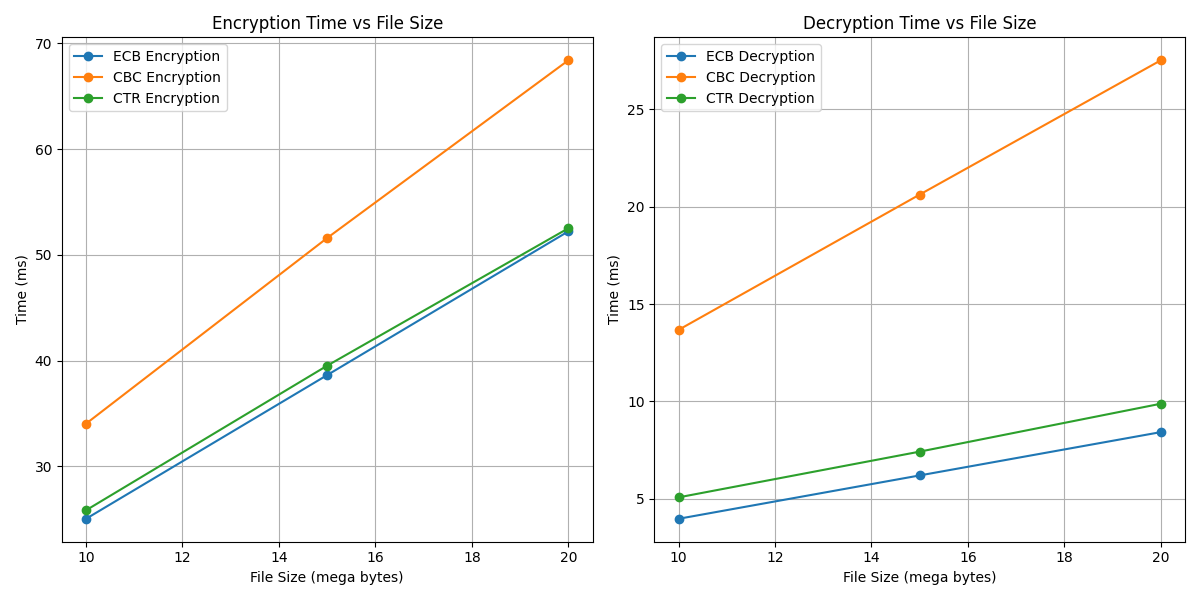
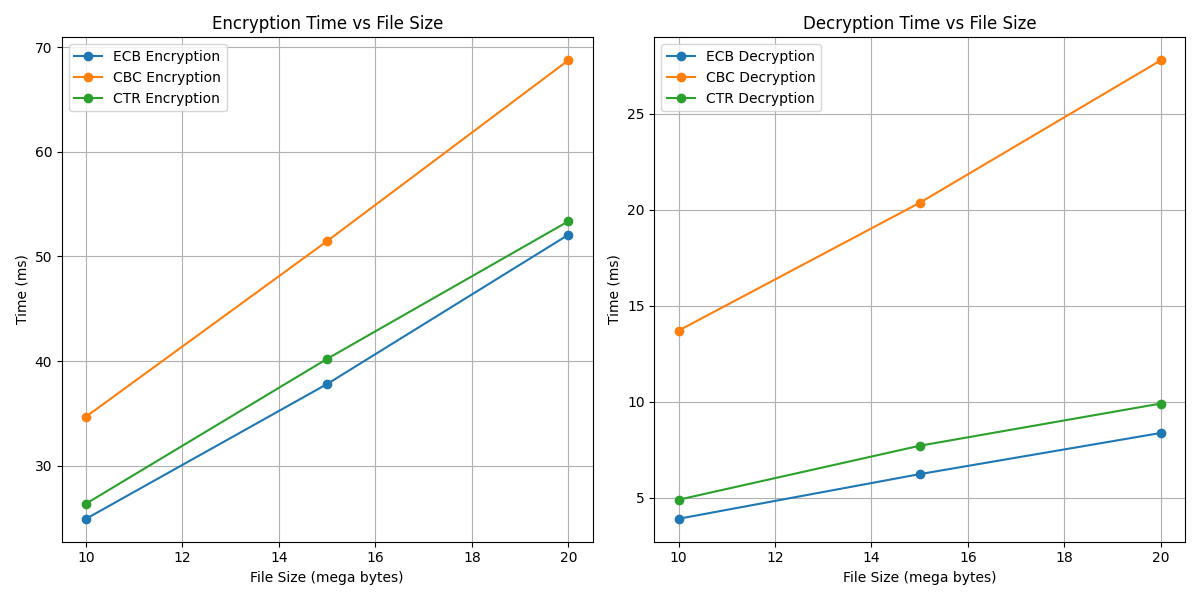
done

diff --git a/lab4/main.py b/lab4/main.py
@@ -4,7 +4,7 @@ from collections import defaultdict
 import matplotlib.pyplot as plt
 import Solution
 from Utils import Utils
-from Crypto.Util.Padding import pad
+from Crypto.Util.Padding import pad, unpad
 
 solution = Solution.Solution()
 utils = Utils.Utils()
@@ -54,28 +54,42 @@ def plotTimes(avgTimes):
     plt.show()
 
 def flipFirstBitOfMessage(message):
-    flipped_message = bytearray(message, 'utf-8')
-    flipped_message[len(flipped_message) // 2] ^= 1
-    return flipped_message.decode('utf-8', errors='ignore')
+    flipped_message = bytearray(message)
+    flipped_message[0] ^= 0b00000001
+    return bytes(flipped_message)
 
 def flipFirstBitOfCipher(cipher):
     flipped_cipher = bytearray(cipher)
-    flipped_cipher[0] ^= 1
-    return flipped_cipher
-def compareBitWiseError(original, damaged):
-    numberOfErrors = 0
+    original = flipped_cipher.copy()
+    flipped_cipher[0] ^= 0b00000001
+    for i in range(len(original)):
+        if original[i] != flipped_cipher[i]:
+            print("Flipped byte at index", i, "from", original[i], "to", flipped_cipher[i])
+
+    return bytes(flipped_cipher)
+
+
+def compareBlockWiseError(original, damaged, blockSize=16):
+    damaged_blocks = 0
 
     original = bytearray(original)
     damaged = bytearray(damaged)
 
-    for i in range(min(len(original), len(damaged))):
-        xor = original[i] ^ damaged[i]
-        numberOfErrors += bin(xor).count("1")
+    numBlocks = min(len(original), len(damaged)) // blockSize
 
-    return numberOfErrors
+    for i in range(numBlocks):
+        blockStart = i * blockSize
+        blockEnd = blockStart + blockSize
+
+        originalBlock = original[blockStart:blockEnd]
+        damagedBlock = damaged[blockStart:blockEnd]
+
+        if originalBlock != damagedBlock:
+            damaged_blocks += 1
+
+    return damaged_blocks
 
 def createAllCiphers(key, iv, nonce):
-    key = b'0123456789abcdef'
     cipherECB = solution.createCipherECB(key)
     cipherCBC = solution.createCipherCBC(key, iv)
     cipherCTR = solution.createCipherCTR(key, nonce)
@@ -109,11 +123,11 @@ def plotErrors(sumErrors):
     plt.ylim(0, 100)
     plt.yticks(range(0, 101, 10))
 
-
+    '''
     for bar in bars:
         yval = bar.get_height()
         plt.text(bar.get_x() + bar.get_width() / 2, yval + 2, f'{yval:.2f}%', ha='center', va='bottom')
-
+    '''
 
     plt.subplot(1, 2, 2)
     bars = plt.bar(scenario2.keys(), scenario2.values(), color=['blue', 'green', 'red'])
@@ -123,10 +137,11 @@ def plotErrors(sumErrors):
     plt.ylim(0, 100)
     plt.yticks(range(0, 101, 10))
 
+    '''
     for bar in bars:
         yval = bar.get_height()
         plt.text(bar.get_x() + bar.get_width() / 2, yval + 2, f'{yval:.2f}%', ha='center', va='bottom')
-
+    '''
     plt.tight_layout()
     plt.show()
 
@@ -156,31 +171,31 @@ def main():
     for file in files:
         print(f"File {file} generated")
 
-    key = b'0123456789abcdef'
+    keyForCypher = b'0123456789abcdef'
     nonce = random.getrandbits(64).to_bytes(8, 'big')
     iv = random.getrandbits(128).to_bytes(16, 'big')
     iterations = 40
 
-    cipherECB, cipherCBC, cipherCTR = createAllCiphers(key, iv, nonce)
+    cipherECB, cipherCBC, cipherCTR = createAllCiphers(keyForCypher, iv, nonce)
 
     ciphers = [cipherECB, cipherCBC, cipherCTR]
     tags = ["ECB", "CBC", "CTR"]
     times = dict()
     
-    for i in range(iterations):
+    for i in range(0):
         print("Iteration", i)
         for idx, cipher in enumerate(ciphers):
             for file in filenames:
 
-                cipher = solution.createCipherCBC(key, iv) if tags[idx] == "CBC" else cipher
-                cipher = solution.createCipherCTR(key, nonce) if tags[idx] == "CTR" else cipher
+                cipher = solution.createCipherCBC(keyForCypher, iv) if tags[idx] == "CBC" else cipher
+                cipher = solution.createCipherCTR(keyForCypher, nonce) if tags[idx] == "CTR" else cipher
 
                 elapsedTime, encrypted = mesaureEncryptionTime(cipher, file)
                 times[(tags[idx] , file, i,'encrypted')] = elapsedTime, encrypted
                 #print(f"Encryption time for {file} using {tags[idx]}: {elapsedTime} ms")
 
-                cipher = solution.createCipherCBC(key, iv) if tags[idx] == "CBC" else cipher
-                cipher = solution.createCipherCTR(key, nonce) if tags[idx] == "CTR" else cipher
+                cipher = solution.createCipherCBC(keyForCypher, iv) if tags[idx] == "CBC" else cipher
+                cipher = solution.createCipherCTR(keyForCypher, nonce) if tags[idx] == "CTR" else cipher
 
                 elapsedTime, decrypted = mesaureDecryptionTime(cipher, encrypted)
                 times[(tags[idx] , file,i ,'decrypted')] = elapsedTime, decrypted
@@ -197,38 +212,41 @@ def main():
 
     # zad 2
     sumErrors = defaultdict(float)
-    for i in range(iterations):
+    for i in range(1):
+        iv = random.getrandbits(128).to_bytes(16, 'big')
         randomMessage = utils.generateRandomStringOfLength(50)
 
-        cipherECB, cipherCBC, cipherCTR = createAllCiphers(key, iv, nonce)
+        cipherECB, cipherCBC, cipherCTR = createAllCiphers(keyForCypher, iv, nonce)
         paddedMessage = padMessage(randomMessage)
 
-        encryptedECB = solution.encrypt(cipherECB, paddedMessage)
-        encryptedCBC = solution.encrypt(cipherCBC, paddedMessage)
-        encryptedCTR = solution.encrypt(cipherCTR, paddedMessage)
+        encryptedECB = solution.encrypt(cipherECB, bytearray(paddedMessage))
+        encryptedCBC = solution.encrypt(cipherCBC, bytearray(paddedMessage))
+        encryptedCTR = solution.encrypt(cipherCTR, bytearray(paddedMessage))
 
-        damagedMessage = flipFirstBitOfMessage(randomMessage)
-        paddedDamagedMessage = padMessage(damagedMessage)
+        damagedMessage = flipFirstBitOfMessage(bytearray(paddedMessage))
+        paddedDamagedMessage = damagedMessage
 
-        damagedMessageEncryptedECB = solution.encrypt(cipherECB, paddedDamagedMessage)
-        damagedMessageEncryptedCBC = solution.encrypt(cipherCBC, paddedDamagedMessage)
-        damagedMessageEncryptedCTR = solution.encrypt(cipherCTR, paddedDamagedMessage)
+        cipherECB, cipherCBC, cipherCTR = createAllCiphers(keyForCypher, iv, nonce)
+
+        damagedMessageEncryptedECB = solution.encrypt(cipherECB, bytearray(paddedDamagedMessage))
+        damagedMessageEncryptedCBC = solution.encrypt(cipherCBC, bytearray(paddedDamagedMessage))
+        damagedMessageEncryptedCTR = solution.encrypt(cipherCTR, bytearray(paddedDamagedMessage))
 
         for tag, encrypted, damagedEncrypted in zip(["ECB", "CBC", "CTR"], [encryptedECB, encryptedCBC, encryptedCTR],
                                                     [damagedMessageEncryptedECB, damagedMessageEncryptedCBC, damagedMessageEncryptedCTR]):
-            numberOfErrors = compareBitWiseError(encrypted, damagedEncrypted)
+            numberOfErrors = compareBlockWiseError(encrypted, damagedEncrypted)
             sumErrors[tag, 's1'] += numberOfErrors
 
         #scenario 2
         randomMessage = utils.generateRandomStringOfLength(50)
         paddedMessage = padMessage(randomMessage)
 
-        cipherECB, cipherCBC, cipherCTR = createAllCiphers(key, iv, nonce)
+        cipherECB, cipherCBC, cipherCTR = createAllCiphers(keyForCypher, iv, nonce)
 
         #tworzenie szyfrogramu
-        encryptedECB = solution.encrypt(cipherECB, paddedMessage)
-        encryptedCBC = solution.encrypt(cipherCBC, paddedMessage)
-        encryptedCTR = solution.encrypt(cipherCTR, paddedMessage)
+        encryptedECB = solution.encrypt(cipherECB, bytearray(paddedMessage))
+        encryptedCBC = solution.encrypt(cipherCBC, bytearray(paddedMessage))
+        encryptedCTR = solution.encrypt(cipherCTR, bytearray(paddedMessage))
 
         damagedEncryptionECB = flipFirstBitOfCipher(encryptedECB)
         damagedEncryptionCBC = flipFirstBitOfCipher(encryptedCBC)
@@ -236,26 +254,26 @@ def main():
 
 
         #rozszyfrowanie
-        cipherECB, cipherCBC, cipherCTR = createAllCiphers(key, iv, nonce)
+        cipherECB, cipherCBC, cipherCTR = createAllCiphers(keyForCypher, iv, nonce)
 
-        decryptedECB = solution.decrypt(cipherECB, encryptedECB)
-        decryptedCBC = solution.decrypt(cipherCBC, encryptedCBC)
-        decryptedCTR = solution.decrypt(cipherCTR, encryptedCTR)
+        decryptedECB = solution.decrypt(cipherECB, bytearray(encryptedECB))
+        decryptedCBC = solution.decrypt(cipherCBC, bytearray(encryptedCBC))
+        decryptedCTR = solution.decrypt(cipherCTR, bytearray(encryptedCTR))
 
-        cipherECB, cipherCBC, cipherCTR = createAllCiphers(key, iv, nonce)
+        cipherECB, cipherCBC, cipherCTR = createAllCiphers(keyForCypher, iv, nonce)
 
-        decryptedDamagedECB = solution.decrypt(cipherECB, damagedEncryptionECB)
-        decryptedDamagedCBC = solution.decrypt(cipherCBC, damagedEncryptionCBC)
-        decryptedDamagedCTR = solution.decrypt(cipherCTR, damagedEncryptionCTR)
+        decryptedDamagedECB = solution.decrypt(cipherECB, bytearray(damagedEncryptionECB))
+        decryptedDamagedCBC = solution.decrypt(cipherCBC, bytearray(damagedEncryptionCBC))
+        decryptedDamagedCTR = solution.decrypt(cipherCTR, bytearray(damagedEncryptionCTR))
         for tag, decrypted, decryptedDamaged in zip(["ECB", "CBC", "CTR"], [decryptedECB, decryptedCBC, decryptedCTR],
                                                     [decryptedDamagedECB, decryptedDamagedCBC, decryptedDamagedCTR]):
-            numberOfErrors = compareBitWiseError(decrypted, decryptedDamaged)
+            numberOfErrors = compareBlockWiseError(decrypted, decryptedDamaged)
             sumErrors[tag, 's2'] += numberOfErrors
 
-    byteLenght = len(decrypted)
+    byteLenght = len(bytes(decrypted))
 
     for key in sumErrors:
-        sumErrors[key] = (sumErrors[key] / iterations) / (byteLenght * 8) * 100
+        sumErrors[key] = (sumErrors[key]) / (byteLenght / 16) * 100
     plotErrors(sumErrors)
 
 if __name__ == "__main__":

diff --git a/lab4/Solution.py b/lab4/Solution.py
@@ -9,7 +9,7 @@ class Solution:
         return AES.new(key, AES.MODE_CBC, iv=iv)
 
     def createCipherCTR(self, key, nonce):
-        return AES.new(key, AES.MODE_CTR, nonce=nonce)
+        return AES.new(key, AES.MODE_CTR, nonce = b'1',initial_value=0)
 
     def encrypt(self, cipher, text):
         return cipher.encrypt(text)
